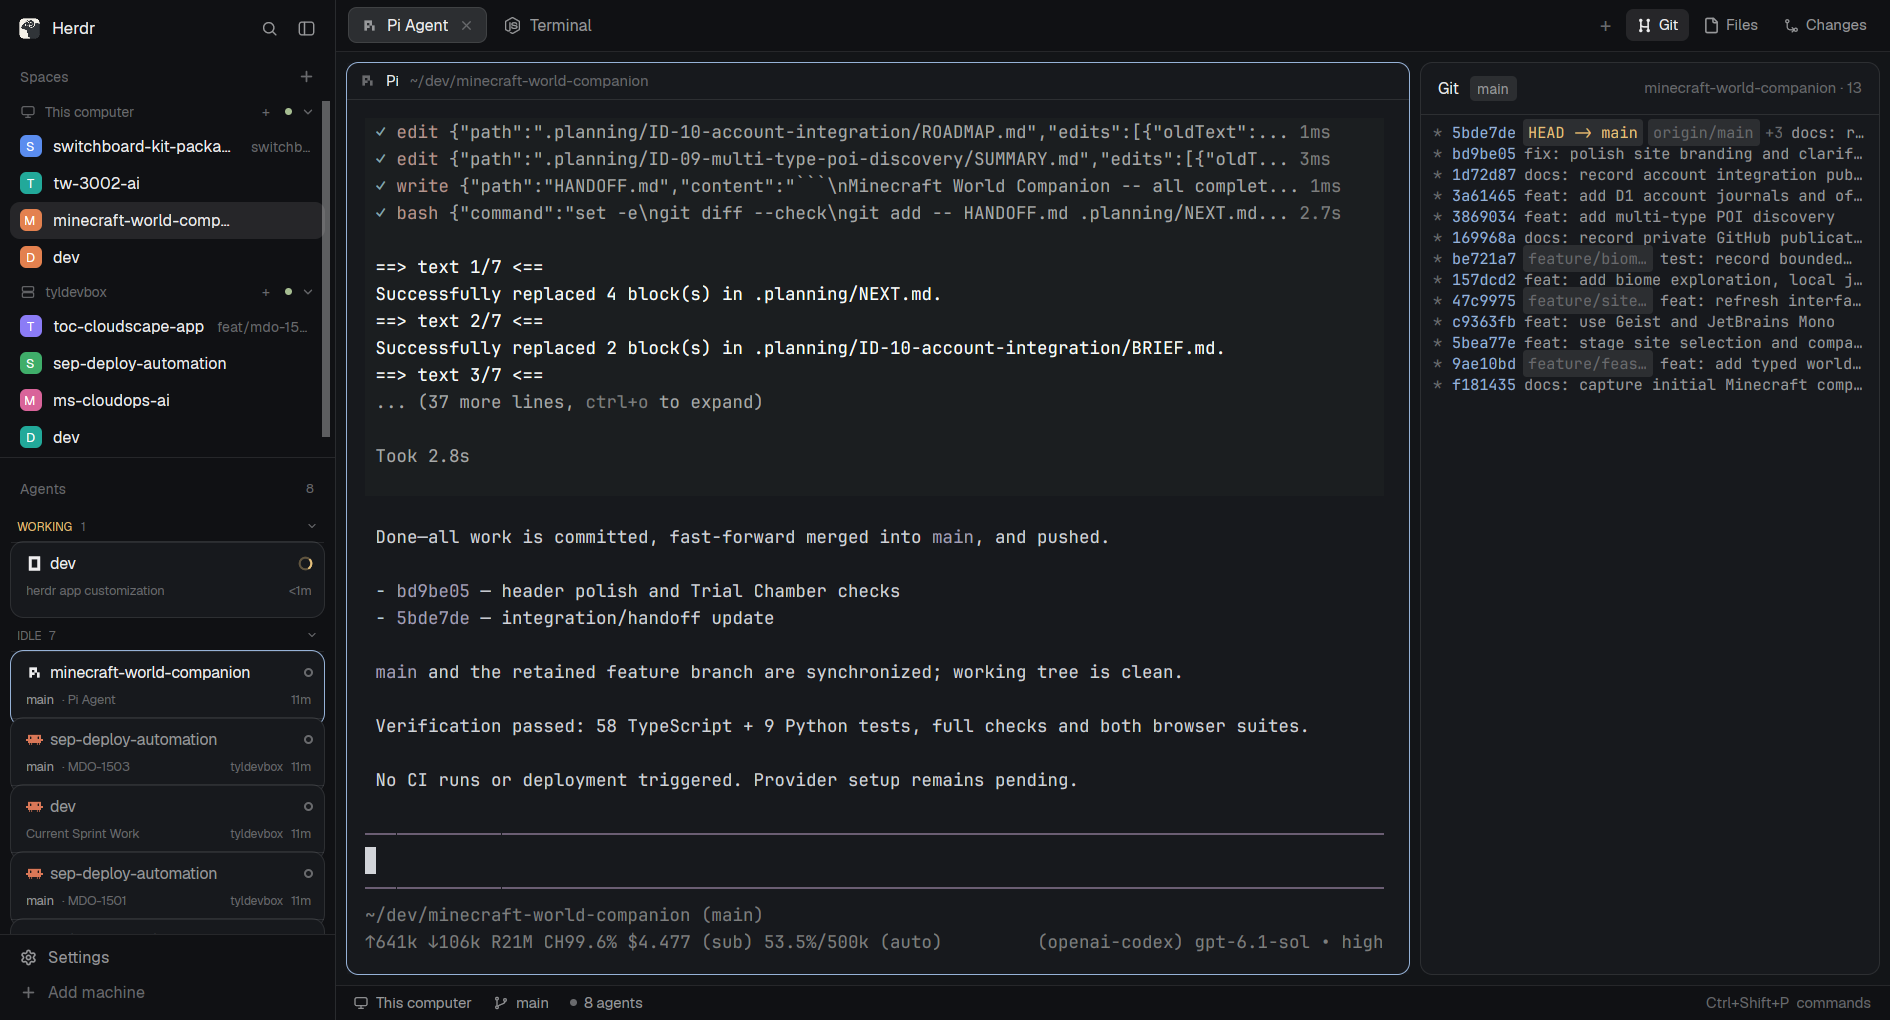
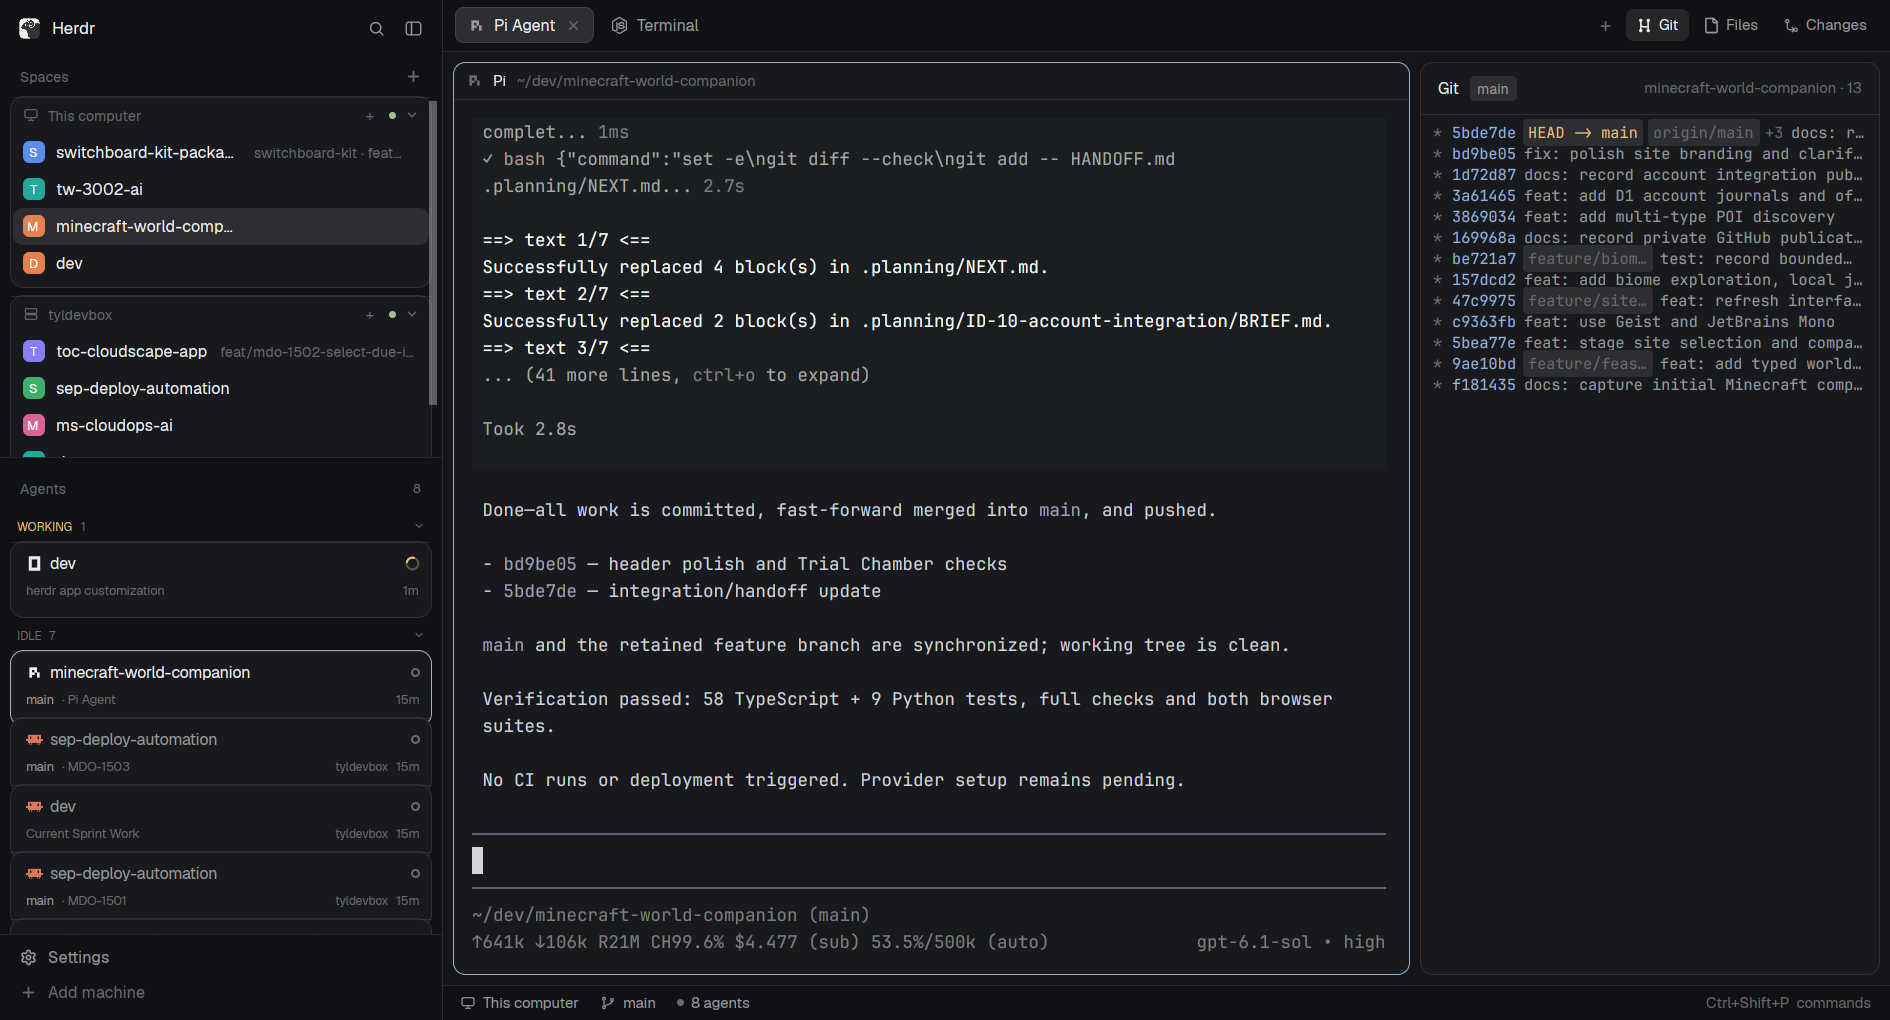
Spaces: one card per machine, spaces as rows inside

diff --git a/mods/spaces-login/main.js b/mods/spaces-login/main.js
@@ -64,7 +64,7 @@ export default class Spaces extends View {
     this.machines = [];
     this.reconnecting = JSON.parse(localStorage.getItem("machines.reconnecting") ?? "{}");
     for (const state of Object.values(this.reconnecting)) state.busy = false;
-    this.folded = new Set(JSON.parse(localStorage.getItem("machines.folded") ?? "[]"));
+    this.folded = new Set(JSON.parse(localStorage.getItem("machines.folded.v2") ?? "[]"));
     this.refreshMachines(cx);
     cx.timer.every(15000, cx => this.refreshMachines(cx));
     // `git status` walks the whole tree, on another machine a process there:
@@ -163,7 +163,7 @@ export default class Spaces extends View {
         if (machine.temporary) args.push("--temp");
         await ask(args);
         this.folded.delete(name);
-        localStorage.setItem("machines.folded", JSON.stringify([...this.folded]));
+        localStorage.setItem("machines.folded.v2", JSON.stringify([...this.folded]));
         delete this.reconnecting[name];
       } catch (e) {
         state.error = String(e.message ?? e);
@@ -350,11 +350,11 @@ export default class Spaces extends View {
       const connected = !m || machine?.state === "connected";
       const rebuilt = this.rebuilt(machine) || !!repair;
       const folded = this.folded.has(m);
-      const head = h_flex().id(`machine-${m ?? "local"}`).h(26).flex_none().px(collapsed ? 2 : 8).gap(7).items_center().text_size(11).text_color(t.dim)
+      const head = h_flex().id(`machine-${m ?? "local"}`).h(30).flex_none().px(collapsed ? 2 : 10).gap(7).items_center().text_size(11.5).text_color(t.dim)
         .cursor_pointer().hover(s => s.bg(t.hover))
         .on_click((_e, cx) => {
           folded ? this.folded.delete(m) : this.folded.add(m);
-          localStorage.setItem("machines.folded", JSON.stringify([...this.folded]));
+          localStorage.setItem("machines.folded.v2", JSON.stringify([...this.folded]));
           cx.notify();
         })
         .child(svg(`mods/workspace-chrome/${m ? "server" : "monitor"}.svg`).size(13).flex_none())
@@ -381,9 +381,28 @@ export default class Spaces extends View {
         .text_size(12).text_color(t.dim).hover(s => s.bg(t.hover).text_color(t.foreground))
         .on_click(() => run("space.new", { machine: m ?? "" }))
         .child(svg("mods/workspace-chrome/plus.svg").size(12)).when(!collapsed, el => el.child("New space there"));
-      if (!collapsed && rebuilt) return [head];
-      return [head, ...(folded ? [] : mine.length ? mine.map(draw) : [loading(m) ? loadingRow(m) : empty])];
+      const body = rebuilt || folded ? [] : mine.length ? mine.map(draw) : [loading(m) ? loadingRow(m) : empty];
+      if (collapsed) return [head, ...body];
+      return [this.card(head, body, t)];
     });
+  }
+
+  // One machine, one card: its header and the spaces inside it.
+  card(head, rows, t) {
+    return v_flex()
+      .w_full()
+      .flex_none()
+      .mb(6)
+      .relative()
+      .rounded(11)
+      .overflow_hidden()
+      .bg(t.background)
+      .border_1()
+      .border_color(t.border)
+      .shadow_2xs()
+      .child(div().absolute().top(0).left(0).right(0).h(1).bg(t.foreground).opacity(0.09))
+      .child(head)
+      .when(rows.length > 0, el => el.child(v_flex().px(2).pb(4).children(rows)));
   }
 
   // Only what's unusual, after the name: "herdr \u00b7 spike \u21912 \u21931". The repo or

diff --git a/RECIPE.md b/RECIPE.md
@@ -19,10 +19,12 @@ mods draw a compact rail below 160 px.
   window.
 - A 69 px footer (`workspace-chrome` with `props: {footer: true}`).
 - **Spaces** and the **Agents deck**, each a `weight: 1` block with `min: 90`.
-- Machine groups appear once a second machine is known: an 11 px header row
-  (26 px tall) with a server or monitor icon, the machine name, its state, and a
-  `+` to make a space there. A machine in `needs_login` shows **needs login** in
-  the theme's accent colour instead of the state word.
+- Each machine is one card, styled like the agent cards: `background`, 11 px
+  radius, a 1 px `border`, a 2xs shadow and the same inner top highlight. Its
+  30 px header holds a server or monitor icon, the machine name, its state, a
+  `+` to make a space there, the status dot and the fold chevron; the machine's
+  spaces are rows inside the card. A machine in `needs_login` shows **needs
+  login** in the theme's accent colour instead of the state word.
 - Below the spaces, **Agents** is a deck of cards, one per agent, 62 px tall
   (54 px visible: each card tucks 8 px under the one above). A card is
   `background` (the same colour as the Git and terminal panels, not a grey
@@ -149,11 +151,12 @@ cards. It uses `agents()`, `terminals()`, `panes()`,
 `.opacity()` and native `.spin()` / `.loop()` animation. `localStorage` keys:
 `changed`, `pins`, and `sections` (`{folded: [...], agents: [...]}`).
 
-**`mods/spaces-login`** (clone of the shipped `spaces`, v0.1.13): identical
-except `login(name)`, the `needs_login` branch in `grouped()`, and imports of
-`terminals, focused, notify`. It reads machine state from
-`hc machine ls --json` (`state`, `target`), which the clone already refreshes,
-and filters local terminals with `!t.machine && !String(t.address).includes("/")`.
+**`mods/spaces-login`** (clone of the shipped `spaces`, v0.1.13): the machine
+card wrapper (`card(head, body, t)`), the `needs_login` branch in `grouped()`,
+`login(name)`, and imports of `terminals, focused, notify`. It reads machine
+state from `hc machine ls --json` (`state`, `target`), which the clone already
+refreshes, and filters local terminals with `!t.machine &&
+!String(t.address).includes("/")`.
 
 Shipped pieces it leans on, all present in `~/.config/herdr-app/mods/`:
 `workspace-chrome` (`spinner.svg`, `server.svg`, `monitor.svg`,
@@ -172,10 +175,10 @@ state.
 
 The three clones are derived from Herdr's shipped mods (Apache-2.0). If Herdr
 updates `tabs`, `spaces` or `agents`, diff against
-`~/.config/herdr-app/mods/<name>` and re-apply the small changes above. The
-shipped `agents` clone keeps a renamed fold key (`machines.folded.v2` is in
-`spaces-login`; `agents-cards` uses `sections`) so an older saved fold state
-does not hide the new deck.
+`~/.config/herdr-app/mods/<name>` and re-apply the small changes above. Two
+storage keys differ from the shipped mods: `spaces-login` stores machine folds
+under `machines.folded.v2`, and `agents-cards` stores section folds under
+`sections`.
 
 ## Watch out
 
